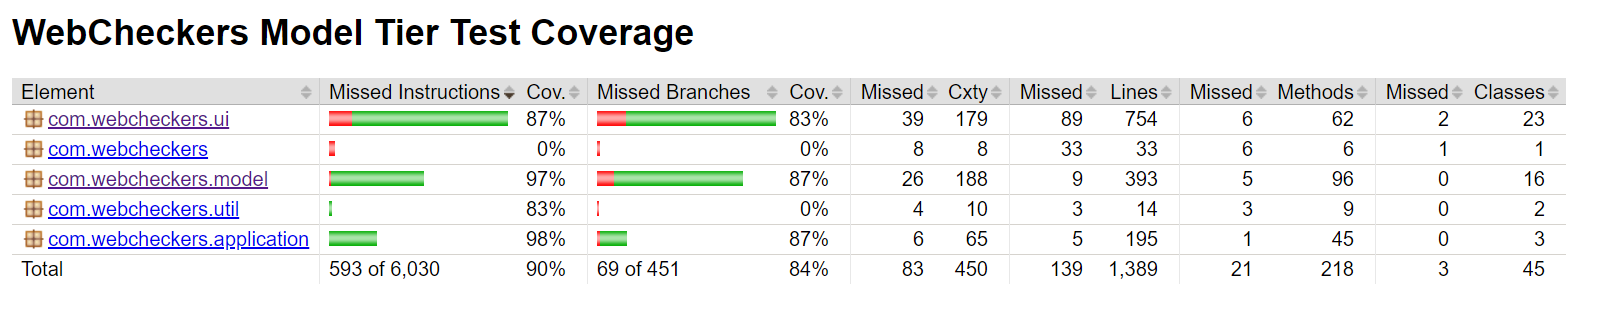
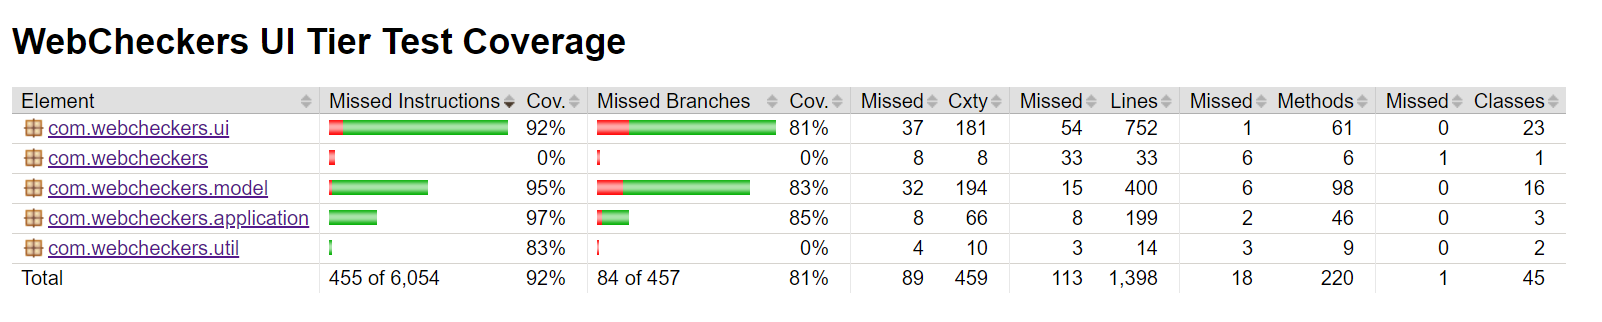
added png files for final code coverage and updated design doc

Changed region(s): [[0.0, 0.23, 0.9988, 0.8914], [0.0, 0.0575, 0.437, 0.2013]]

diff --git a/docs/DesignDoc.md b/docs/DesignDoc.md
@@ -310,29 +310,24 @@ So far three stories have passed all unit testing. These stories are the
 > code coverage met your targets. If there are any anomalies, discuss
 > those._
 
-The strategy for unit testing was to find the most complete (or what we
- thought were complete) classes and begin testing with those. However
- , originally we struggled finding the correct area to test because unit
-  testing only acquires so much. Until we exported boards as JSON objects and
-   allowed them to be used in Unit Testing.
-
 The strategy that we used for unit testing was we found the largest classes
 and the largest methods within those classes and started there when creating
 unit testing. As we continued on and the code coverage started increasing, we
 started to tackle the smaller classes. The overall code coverage that we managed
-to achieve was a 90% which reached our ultimate goal, however the UI tier
-was not able to get to the 90% that we had hoped for each tier to achieve.
+to achieve was a 92% which reached our ultimate goal and we were able to get our 
+goal of 90% code coverage for each tier of the project.
 
 ![WebCheckers Final Code Coverage](final-code-coverage.PNG)
 
-As you can see, the UI tier did not quite meet the goal of 90% code coverage 
-that we were hoping to achieve. The model tier and application tier went well 
-beyond this goal. This was due to a lack of communication and commitment from
-some team members. It was also partially due to the fact that as classes
-were finished, team members were not writing the unit tests that needed to be
-made and writing them the last night became fairly difficult. Although we 
-had quite a bit of tests to write the last night before the final release, 
-we were able to get up to 87% code coverage on the UI tier.
+As you can see, the UI tier did meet the ultimate goal of 90% code coverage, 
+however some of the classes in this tier was not quite where we wanted them to
+be. As the team went on creating new classes, we were not keeping up with 
+unit testing on the previous classes. Once we were finished polishing off the 
+project, it became fairly difficult to create all the unit testing the night 
+before the final release. Although we were able to get the overall code coverage
+to the standard 90%, we were unable to get all classes to where we had hoped they
+would get to in terms of code coverage.
+
 ![WebCheckers UI Coverage Final](final-ui-code-coverage-april-20.PNG)
 
 We also were unable to create the code coverage for parts of the enhancements 
